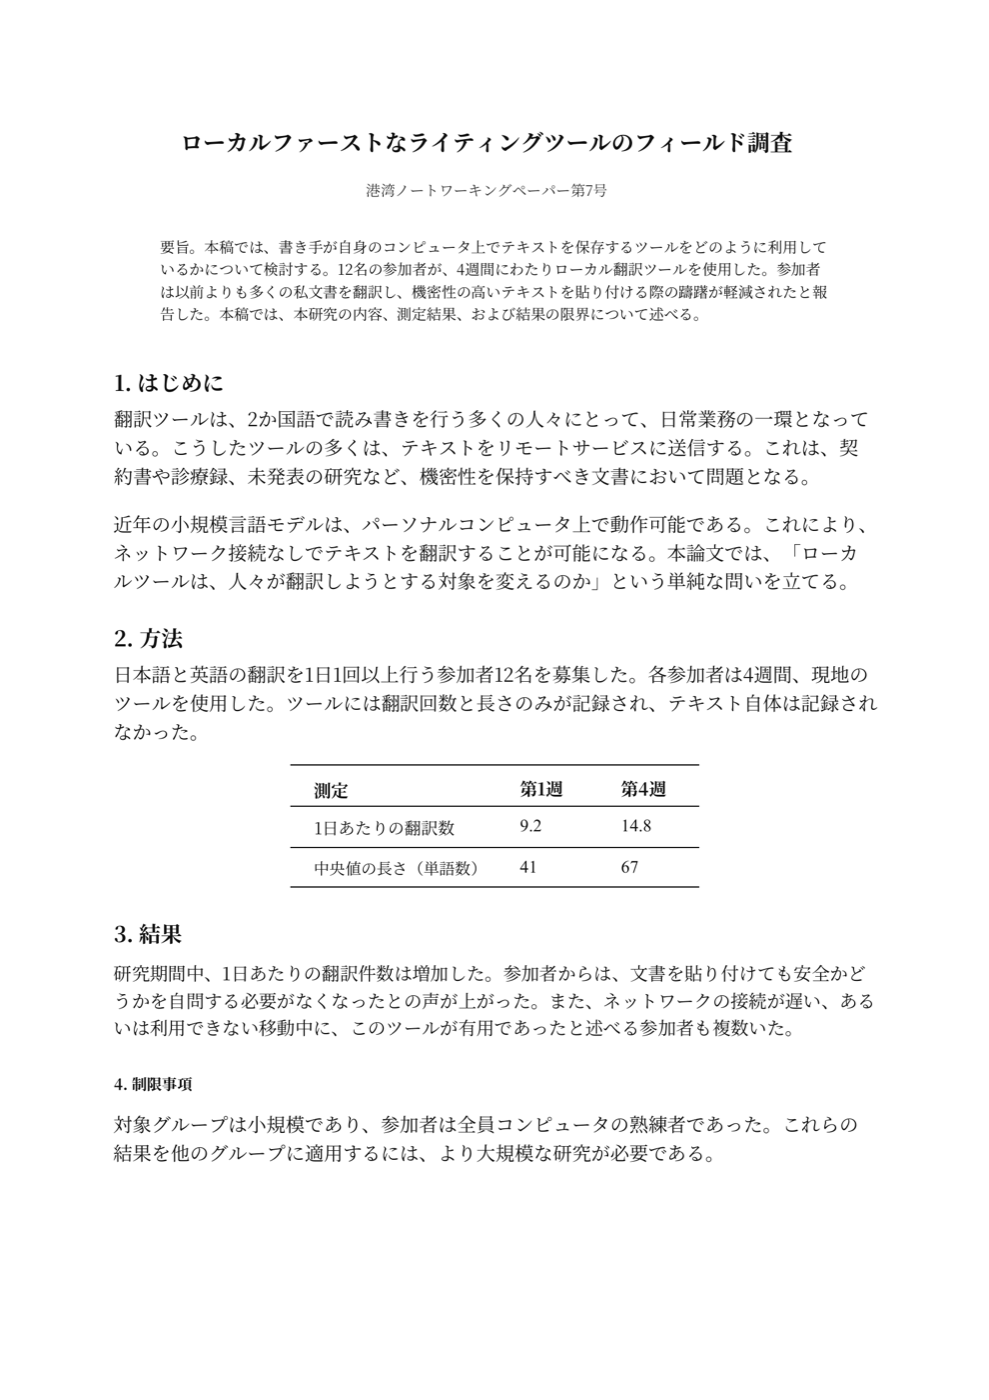
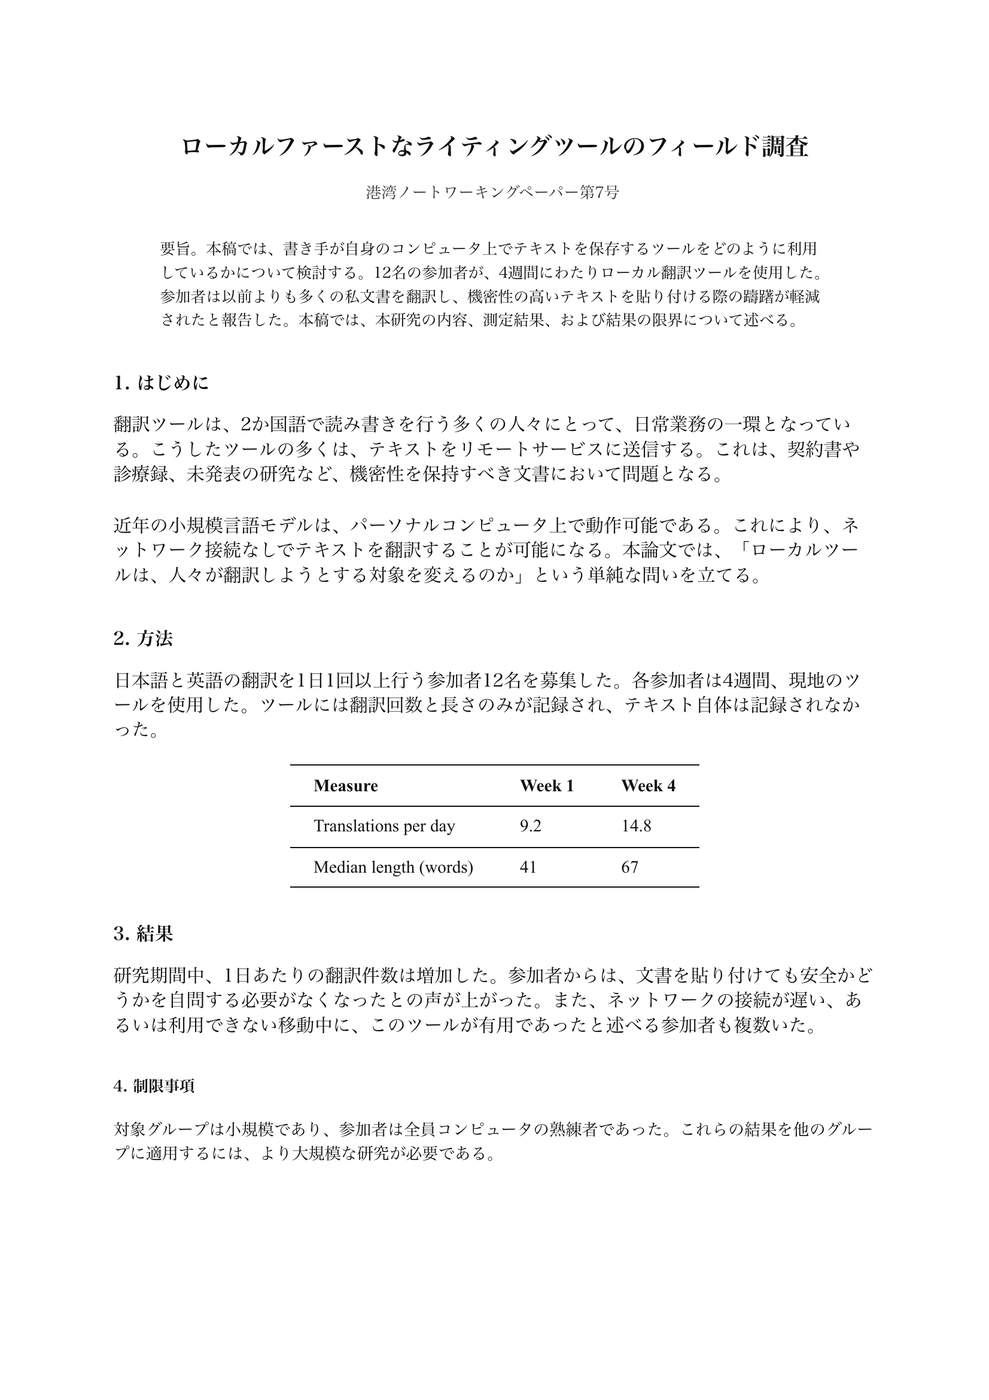
feat(site): show the PDF pages the current app writes
The two PDF pictures on the page were made on 2026-11-10 and showed a
translated table. The app at 37e85df translates the headings and the
paragraphs and leaves the cells of the table in English, and the film on the
page shows that. The pictures are now the same captures the film uses.

diff --git a/marketing/README.md b/marketing/README.md
@@ -10,7 +10,7 @@ and `poster.jpg`.
 | Path | What |
 |---|---|
 | `site/index.html`, `style.css`, `site.js` | The landing page. Static files, system fonts, no requests to other sites. |
-| `site/assets/shots/` | The footage the page and the first movie use (see below). The film on the page uses the same captures, except the two PDF pages: it has newer ones, taken from the app at `37e85df`. |
+| `site/assets/shots/` | The footage the page and the first movie use (see below). The film on the page uses the same captures. |
 | `site/assets/perspica.mp4`, `poster.jpg` | The film on the page (1920x1080, 60 fps, H.264 + AAC, 25.5 s, -15 LUFS) and its poster, the frame at 24.6 s. The poster is also the page's `og:image`. Copied in by hand; `render.mjs` would replace them with the first movie. |
 | `marketing/movie/movie.html` | The first movie (40 s). Every frame is a pure function of `seek(t)`. |
 | `marketing/movie/polly/` | Polly, the mascot, in the five poses the movie uses, cut to one shared square so a pose change does not move it. |
@@ -71,7 +71,7 @@ included), not a cache hit.
 |---|---|
 | `page-en.png` | A page set in English, written and drawn for the demo: `marketing/sources/page.html`, rendered at 1.6 pixels per point. |
 | `page-ja.png` | `--demo-image <that page> --demo-scale 1`, captured with `yaku-verify shot`: the app read the page and laid its translation over it. |
-| `pdf-before.png`, `pdf-after.png` | Page 1 of a paper written for the demo (`marketing/sources/paper.html`, printed to PDF), and page 1 of the PDF the app wrote for it (`--demo-pdf`), both rendered with `pdftoppm -r 200`. |
+| `pdf-before.png`, `pdf-after.png` | Page 1 of a paper written for the demo (`marketing/sources/paper.html`, printed to PDF), and page 1 of the PDF the app wrote for it (`--demo-pdf`), both rendered with `pdftoppm -r 200`. Taken again on 2026-11-16 from the app at `37e85df`: it translates the headings and the paragraphs and leaves the cells of the table in English. The first movie marks the table on these pages, so a new render of it would mark a table that is not translated. |
 | `panel-light.png`, `panel-dark.png` | `--demo-surface panel --demo-state done --demo-pin --demo-backdrop light|dark`, captured as a screen region so the backdrop is behind the glass. |
 | `panel-glass.png`, `hud-glass.png` | The same kind of capture (`--demo-surface panel` / `hud`), cut at the edge of the glass. The page and the movie draw only the shadow under them. |
 
